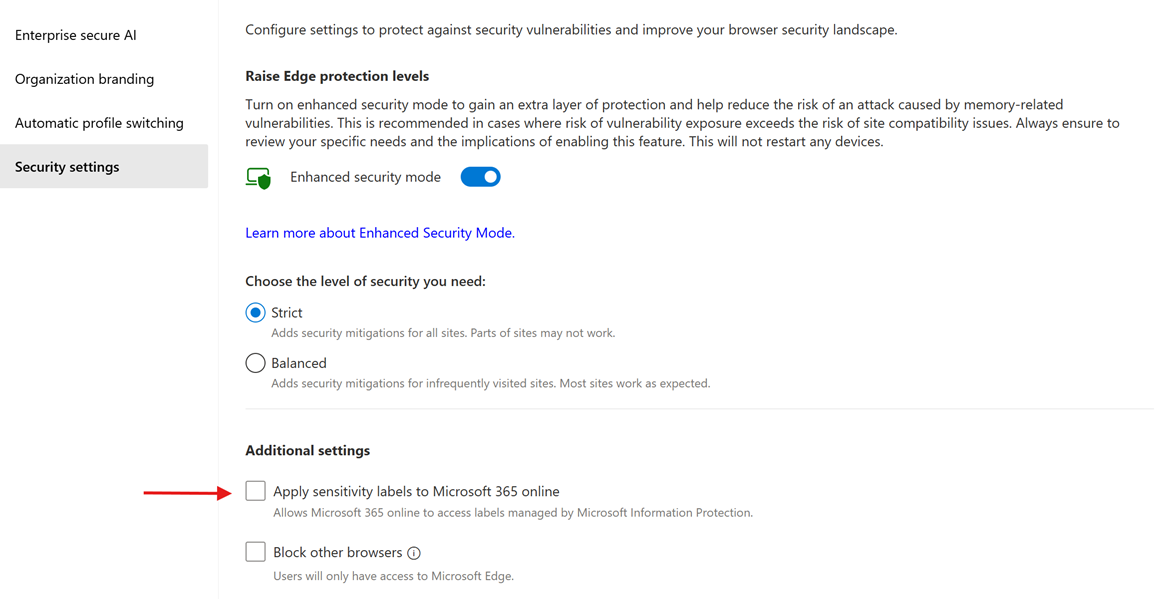
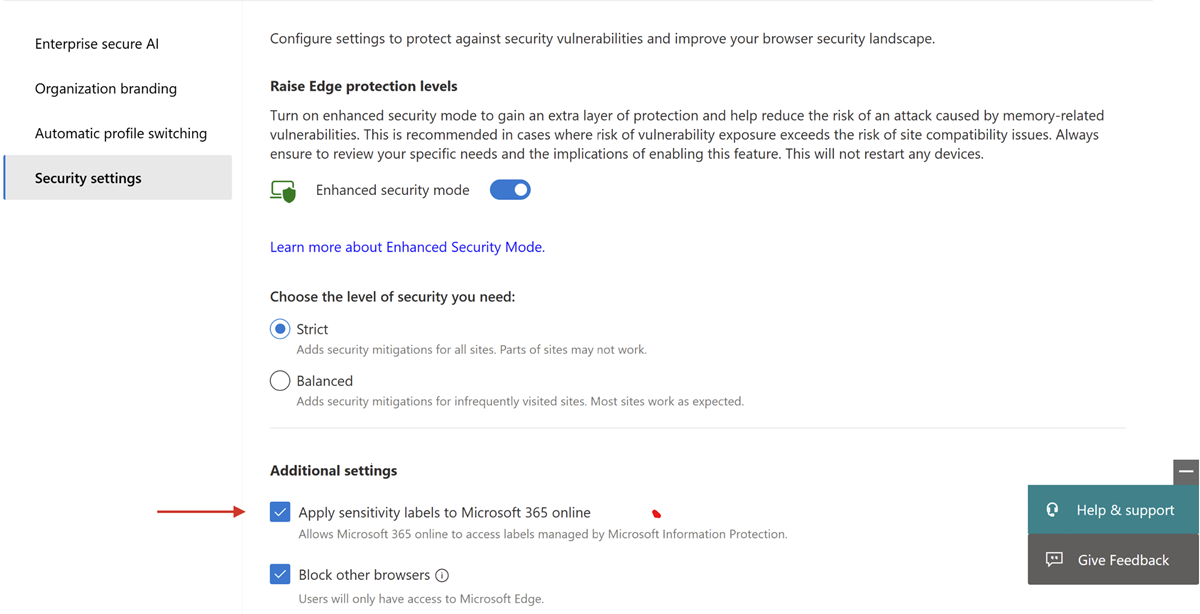
Update Purview

diff --git a/edgeenterprise/microsoft-edge-management-service-office-mip.md b/edgeenterprise/microsoft-edge-management-service-office-mip.md
@@ -3,7 +3,7 @@ title: "Protect Office documents with Microsoft Purview Information Protection l
 ms.author: jikong
 author: dan-wesley
 manager: likuba
-ms.date: 12/12/2024
+ms.date: 01/15/2025
 audience: ITPro
 ms.topic: conceptual
 ms.service: microsoft-edge
@@ -34,7 +34,7 @@ To enable this setting in the Edge management service, navigate within a configu
 
 ### How to allow the use of other browsers while Microsoft Purview Information Protection setting is enabled
 
-The "block other browsers" state is turned on by default when the box labeled "Apply sensitivity labels to Microsoft 365 online" is checked. To allow the use of other browsers, uncheck "Block other browsers" and then select "Save changes." For users assigned to this configuration profile, other browsers remain available.
+The "block other browsers" state is turned on by default when the box labeled "Apply sensitivity labels to Microsoft 365 online" is checked. This serves to keep your data secure by preventing users from trying to avoid sensitivity labels through other browsers. If you would still like to allow the use of other browsers, uncheck "Block other browsers" and then select "Save changes." Doing this means that other browsers will remain available for users assigned to this configuration profile.
 
 ## See also
 
